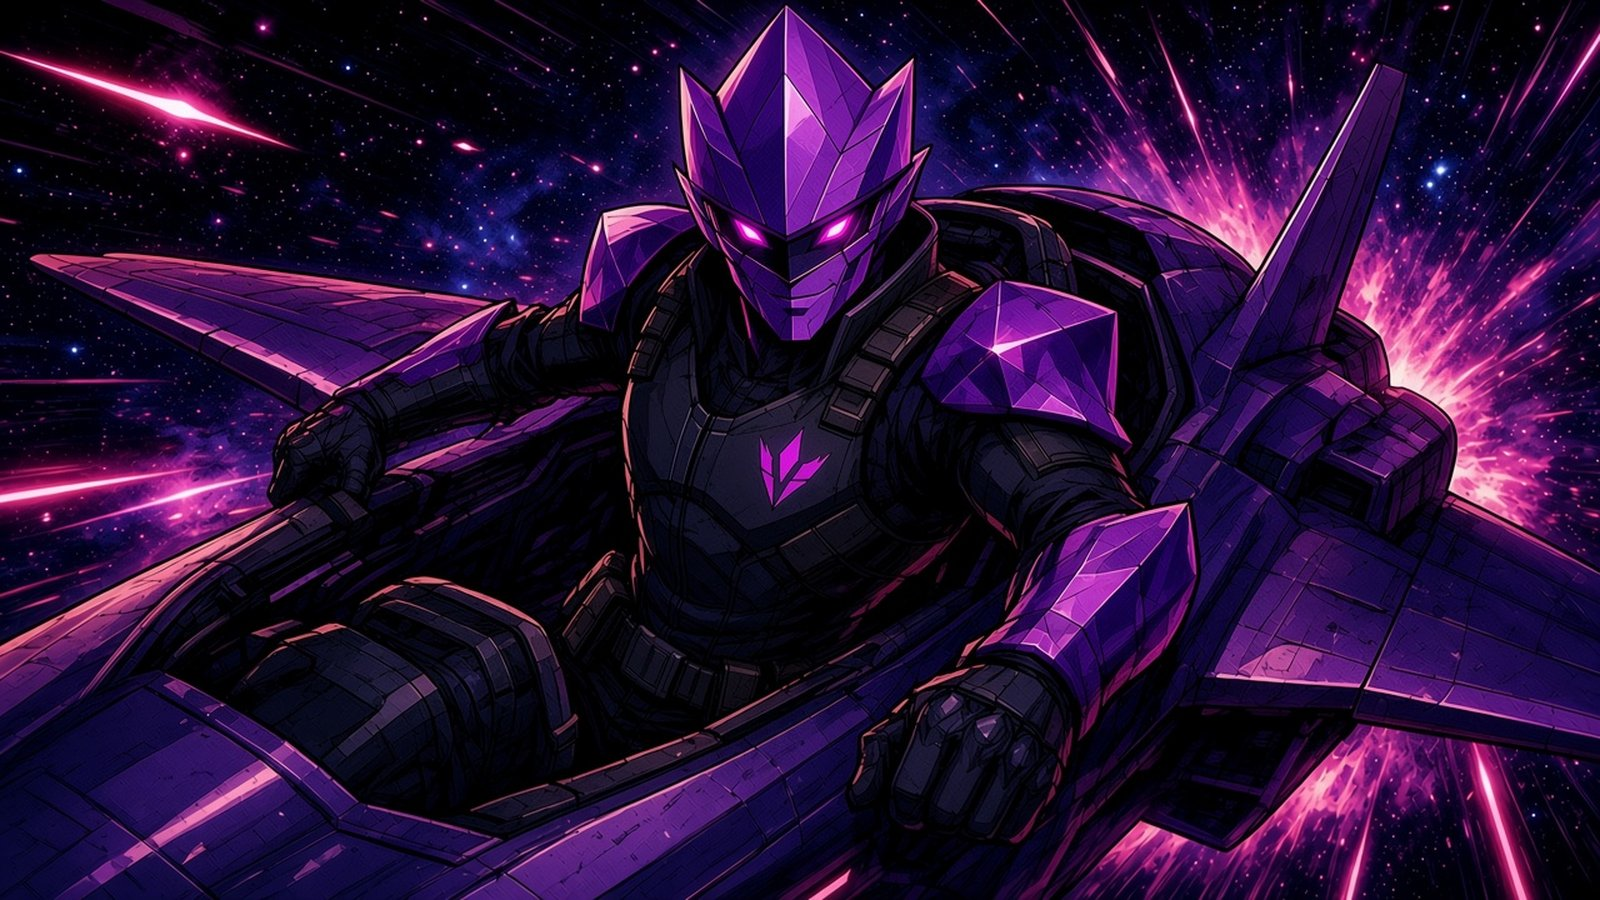
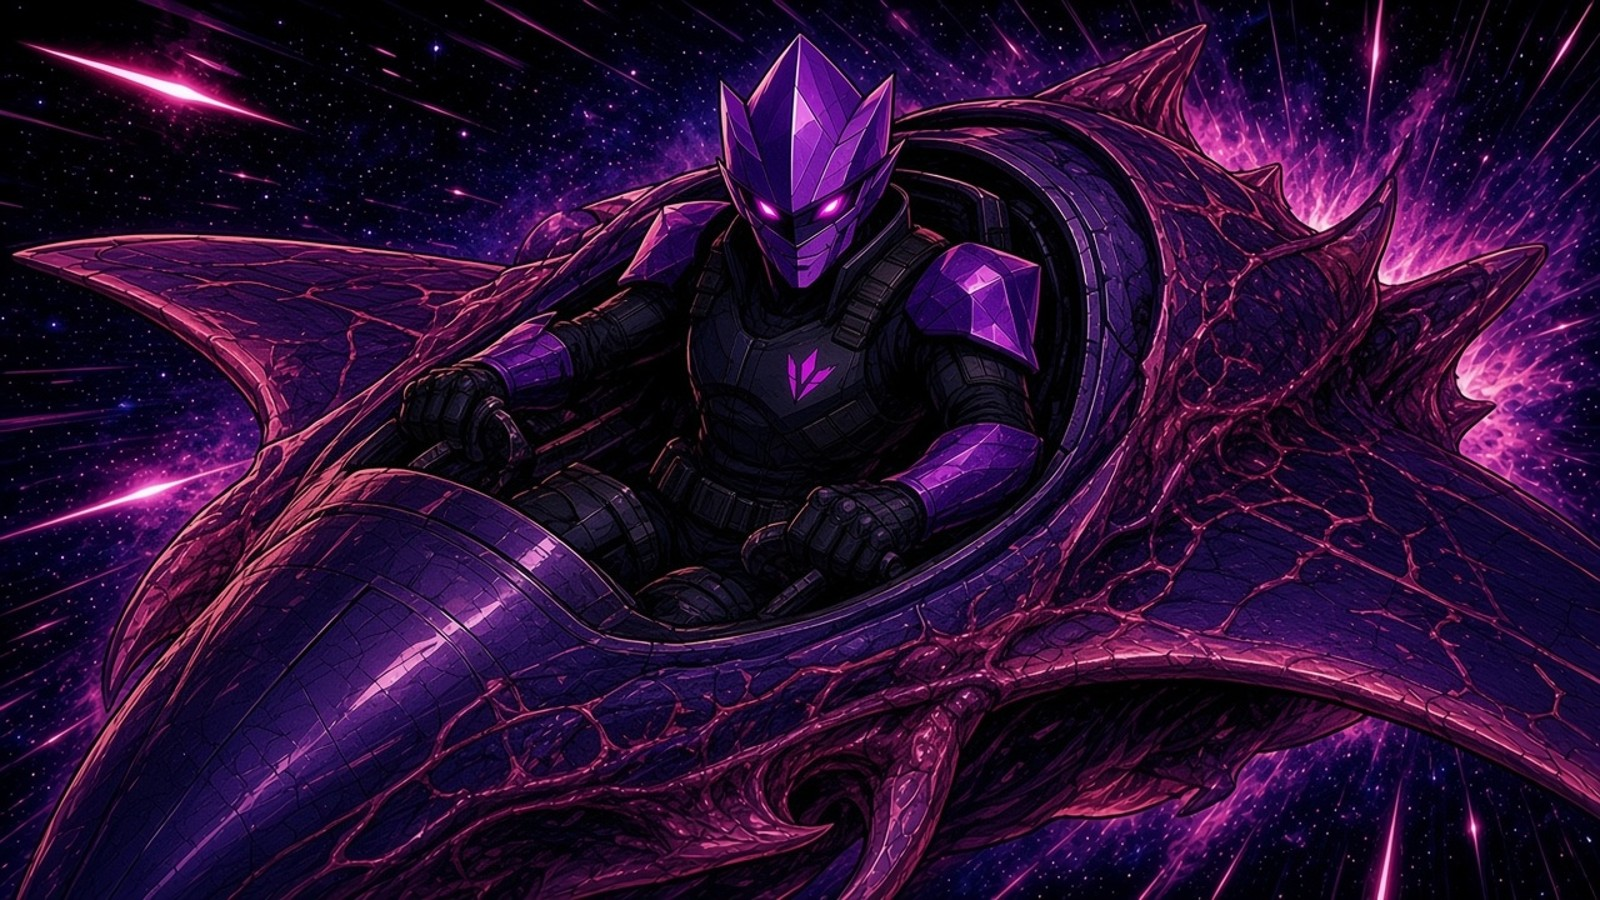
b27 ab358c1

diff --git a/game.js b/game.js
@@ -591,7 +591,7 @@ function initMoon(){const G0=GROUND,P=(x,y,w)=>[x,y,w,12],MR=mission===4;
  movers:[{x0:2710,y0:250,dx:290,dy:0,w:90,sp:.55,ph:0},{x0:3310,y0:230,dx:100,dy:0,w:80,sp:.8,ph:1},{x0:7420,y0:250,dx:0,dy:-120,w:80,sp:.7,ph:0},{x0:11410,y0:240,dx:260,dy:0,w:90,sp:.5,ph:2}],
  craters:[[700,80],[1150,90],[1750,70],[2600,90],[3620,80],[4550,70],[12900,90],[13300,80]],
  lowg:[[8420,8740]],dark:[9200,12650],lamps:[],
- cps:[140,1700,3750,5600,7050,8800,9260,11000,12700].map(x=>({x,on:x===140}))};
+ cps:[140,5600,9260,12700].map(x=>({x,on:x===140}))};
  for(let x=9330;x<12650;x+=320)M.lamps.push(x);
  if(MR)marsLayout(M,P);
  const m=M,gf=[600,760,950,1100,1480,1800,2350,2560,3200,3600,3950,4150,4600,4900,5150,5300,5700,6000,6400,6900,7200,7600,7800,8550,8900,9050,9500,9850,10100,10650,11100,12100,12450,12950,13100,13300,13500];
@@ -1242,7 +1242,7 @@ function captain(x,y,c,o={}){const ci=CAPS.indexOf(c),sc=(o.sc||1)*1.22;let pose
  const by=(ph?.8:0),lx=x+f*-19.5*sc,ly=y+(-41+by)*sc;if(!o.hurt&&(T*2|0)%2)dglow(lx,ly,5*sc,'#7fffa0',.9);
  if(sh){const tx=x+f*28*sc,ty=y-33*sc;dglow(tx,ty,14*sc,'#7fffff',1);g.fillStyle='#fff';g.beginPath();g.ellipse(tx,ty,5*sc,2.2*sc,0,0,TAU);g.fill();g.beginPath();g.ellipse(tx,ty,1.8*sc,5*sc,0,0,TAU);g.fill();}}
 const IMG={};const AV=((document.currentScript&&document.currentScript.src.match(/[?&]v=([^&]+)/))||[])[1]||'';function loadImg(k,src){const i=new Image();if(AV)src+=(src.includes('?')?'&':'?')+'v='+AV;i.onload=()=>{IMG[k]=i;};i.onerror=()=>{};i.src=src;}
-['riley','nova','jax','quinn'].forEach(n=>loadImg(n,'assets/captains/'+n+'.png'));loadImg('title','assets/title.png');loadImg('ship','assets/concept/ship-pale-blue.jpg');
+['riley','nova','jax','quinn'].forEach(n=>loadImg(n,'assets/captains/'+n+'.png'));loadImg('title','assets/title.png');loadImg('ship','assets/concept/ship-pale-blue.jpg');loadImg('spr_kreelfighter','assets/sprites/kreelfighter.png');
 const CAPKEY=['riley','nova','jax','quinn'];
 function hayesP(X,Y,S){const im=IMG.comic_c10,w=40*S,h=40*S,x=X-w/2,y=Y-h;if(!im){dsp(portrait('hayes'),X,Y,S);return;}
  const big=S>3,sw=big?760:420,sh=sw*h/w,sx=clamp(475*im.width/1600-sw*(big?.38:.5),0,im.width-sw),sy=clamp((big?120:40)*im.height/900,0,im.height-sh);
@@ -1458,7 +1458,9 @@ function carrierSpr(){return pre('carrier',230,150,115,75,x=>{
  RR(x,-92,-12,40,24,10);fo(x,'#160a24',1.4);for(let i=0;i<4;i++){E(x,-80+i*8,0,2,2);x.fillStyle='#5fe36a';x.fill();}
  E(x,10,-6,22,14);fo(x,ballG(x,10,-6,22,14,'#ff4fd0'),1.4);gloss(x,4,-12,8,3,.8);
  for(const yy of[-18,18]){RR(x,78,yy-6,18,12,5);fo(x,'#3a2a5a',1.2);}});}
-function kreelShipSpr(p2){return pre('kws'+(p2?1:0),280,190,140,95,x=>{
+function kreelShipSpr(p2){const KI=IMG.spr_kreelfighter;if(KI)return pre('kwsI'+(p2?1:0),280,190,140,95,x=>{const w=280,h=w*KI.height/KI.width;x.drawImage(KI,-140,-h/2,w,h);
+  if(p2){x.globalCompositeOperation='source-atop';x.fillStyle='rgba(255,60,160,.22)';x.fillRect(-140,-95,280,190);x.globalCompositeOperation='source-over';x.strokeStyle='#ffb0ee';x.lineWidth=2.2;x.beginPath();x.moveTo(-40,-30);x.lineTo(-18,-8);x.lineTo(2,-26);x.moveTo(30,20);x.lineTo(52,4);x.lineTo(74,18);x.moveTo(-70,14);x.lineTo(-48,2);x.stroke();}});
+ return pre('kws'+(p2?1:0),280,190,140,95,x=>{
  const poly=(pts,fill,lw=2)=>{x.beginPath();x.moveTo(pts[0],pts[1]);for(let i=2;i<pts.length;i+=2)x.lineTo(pts[i],pts[i+1]);x.closePath();fo(x,fill,lw);},cg=(y0,y1,c)=>lg(x,0,y0,0,y1,c);
  const sp=p2?['#ffc0ea','#ff3aa0','#5a0838']:['#e8c0ff','#a050f8','#3a106a'];
  for(const sY of[-1,1])for(let i=0;i<6;i++){const bx=-60+i*28,len=(p2?58:38)+((i*13)%3)*12;poly([bx-11,sY*24,bx+3+i*2,sY*(24+len),bx+13,sY*24],cg(sY*20,sY*(24+len),sp),1.6);}

diff --git a/index.html b/index.html
@@ -5,4 +5,4 @@
 canvas{position:absolute;}#rot{display:none;position:fixed;inset:0;color:#ffc53d;font:bold 22px sans-serif;align-items:center;justify-content:center;text-align:center;background:#090c26}
 @media (orientation:portrait){#rot{display:flex}}</style></head><body>
 <canvas id="c"></canvas><div id="rot">Turn your device sideways<br>to play Pale Blue: Crystal Defenders</div>
-<script src="game.js?v=0315e58"></script></body></html>
+<script src="game.js?v=ab358c1"></script></body></html>
